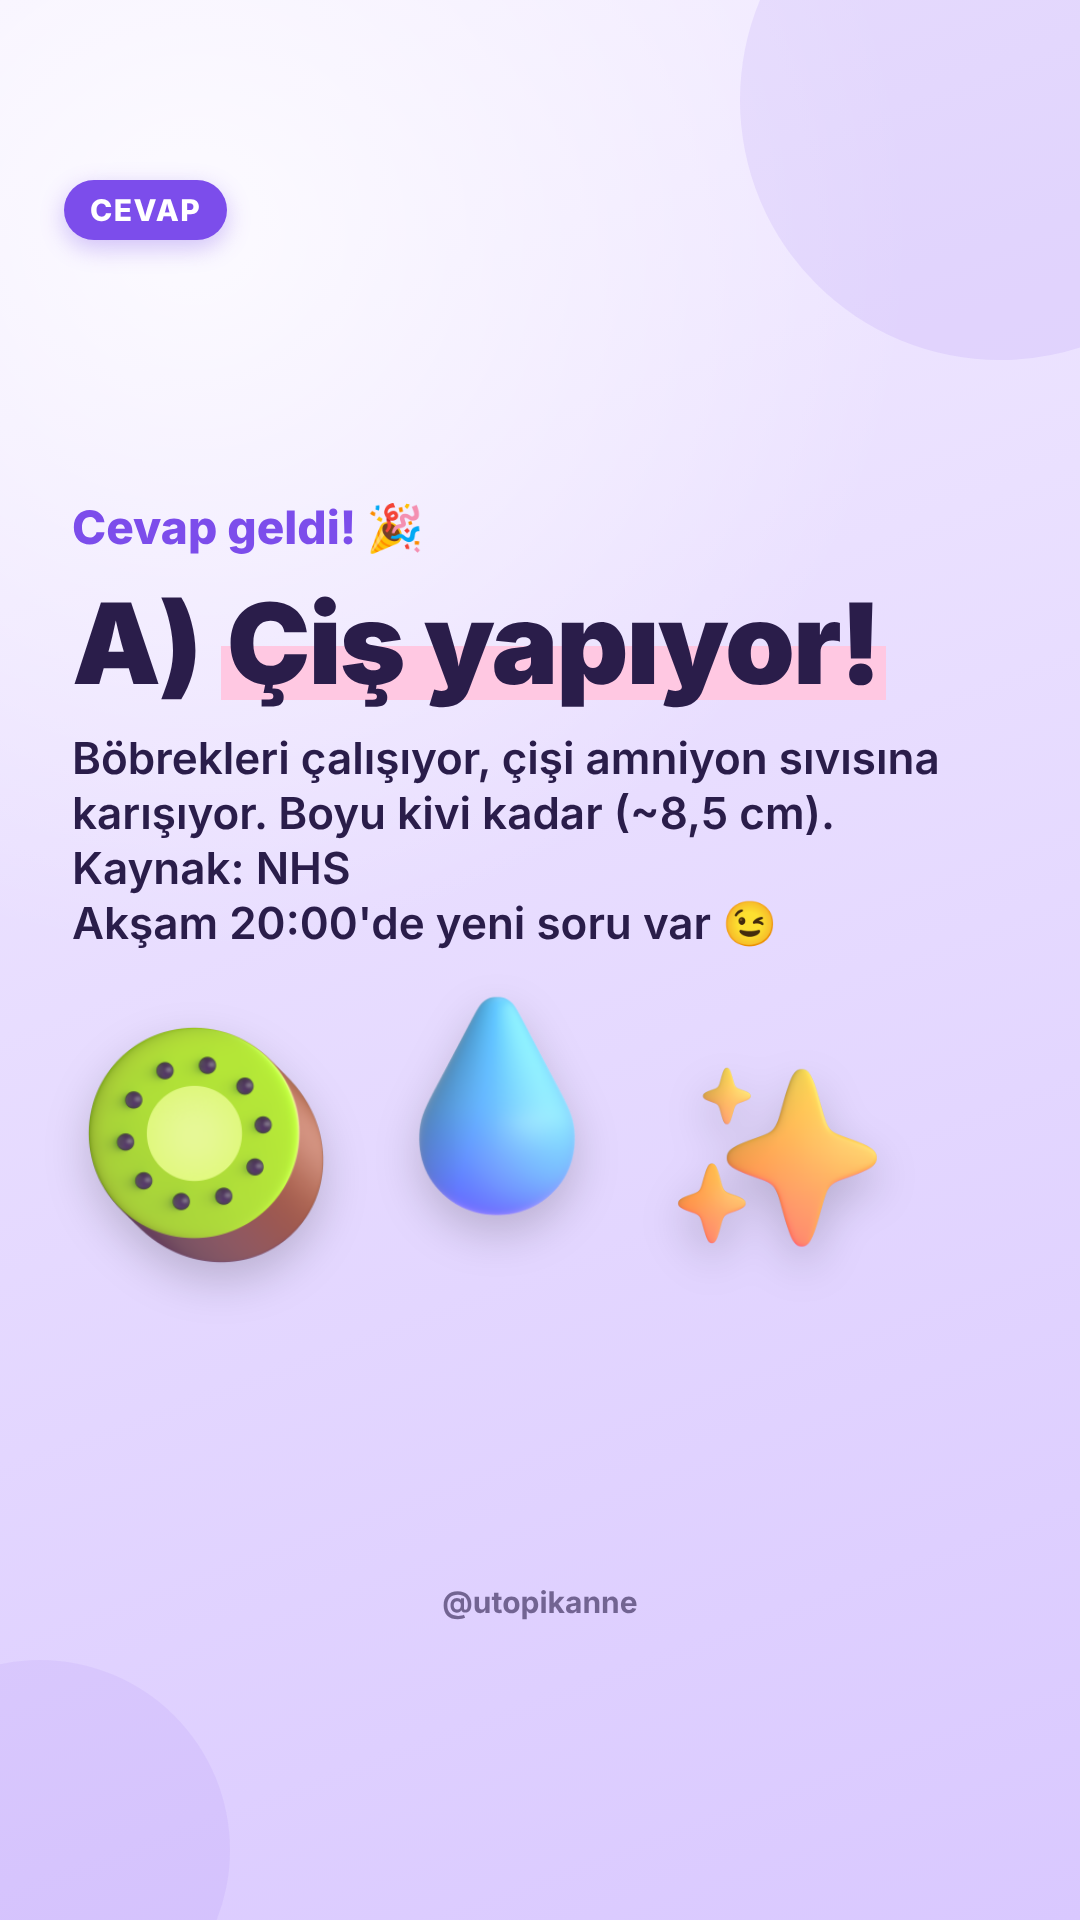
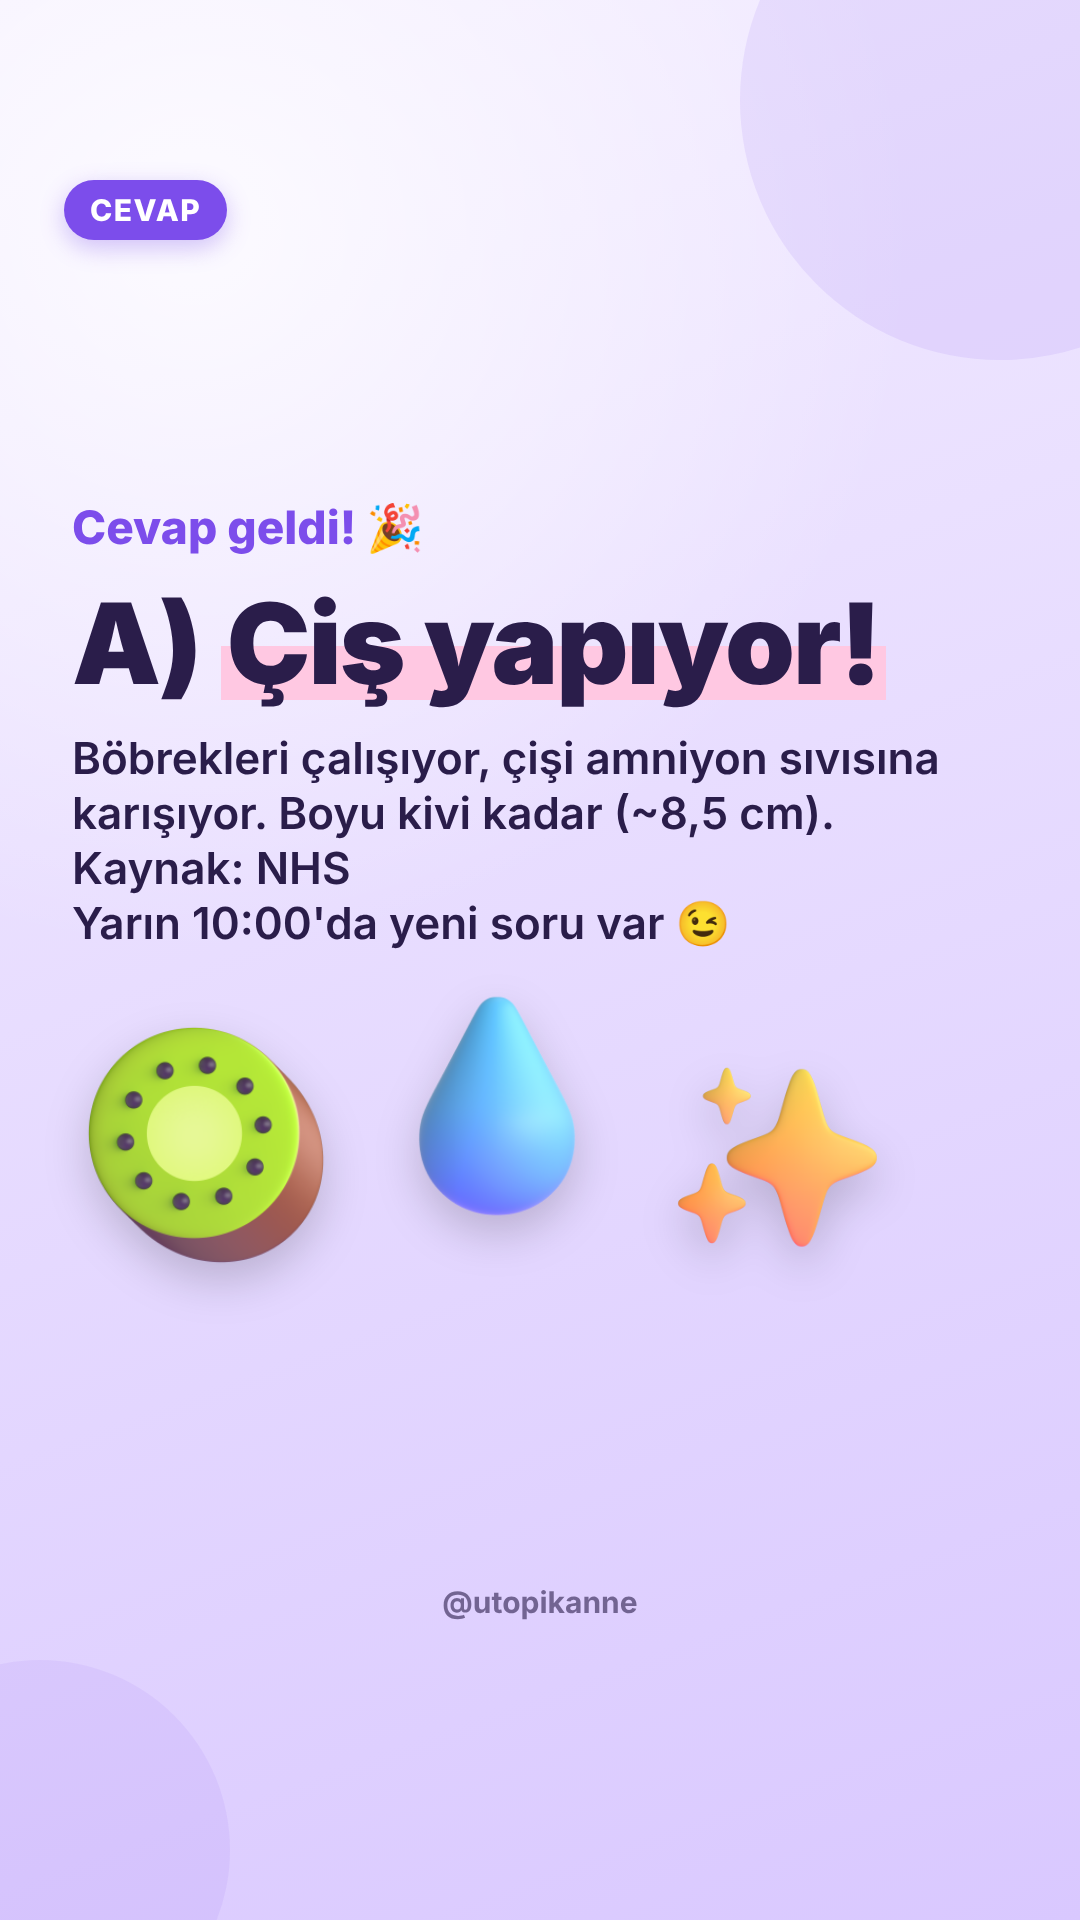
utopikanne 14 Kasım: 6 hikâye (günaydın, 2 soru-cevap, iyi geceler) + 13 Kasım 20:00 atıfları düzeltildi

Changed region(s): [[0.0611, 0.4688, 0.7333, 0.5]]

diff --git a/hesaplar/utopikanne/ders_notlari.md b/hesaplar/utopikanne/ders_notlari.md
@@ -20,3 +20,4 @@
 - 2026-11-10 (hesap sahibi uyarısı): Kapak "kapsül şekere benziyor" dedi ama görselde kapsül yoktu ("pro" beyaz zemin sadece yazı) → renkli tasarımcı rolü eklendi; "stil":"pro" bu hesapta KULLANILMAZ; başlık bir nesneden söz ediyorsa o nesne kapakta büyük çizilir (anne_canli kapak "yanyana" alanı). İyi geceler/günaydın duygu taşır: öğüt, sayı, kaynak yok. Fluent ikonları bu konteynerden indirilemiyor (github 403) → gerekirse kendimiz çiziyoruz.
 - 2026-11-10 (Analist, GÜVENLİK): analiz/veri_*.json içindeki "paging" adreslerinde access_token açık yazılıydı (public depo). ig_yayin.py analiz() artık temizle() ile paging ve token'ı siliyor; eski dosyalar temizlendi. Git geçmişinde hâlâ duruyor → token yenilenmeli.
 - 2026-11-13 (gece turu): Zamanlanmış görev metni v6.2 (10 Kasım) idi; Melike 11 Kasım 19:12–19:46'da v5.6 story kuralını koydu (soru+cevap çiftleri, günaydın'da "Bunu biliyor muydun?", şair sözü iyi geceler) → en yeni Melike kuralı uygulandı, 12 Kasım kuyruğu örnek alındı. Doğrulayıcı: "14. haftada yüz buruşturur" NHS/HSE'de yok (HSE 16. hafta) → soru "çiş yapıyor" oldu; emzik deliklerinin "nefes" amacı resmî metinde yok, yalnız "ventilation holes". Emzik çizimi marka/ikon/emzik.png (kendi çizimimiz).
+- 2026-11-14 (gece turu): Saat düzeni v6 (12 Kasım 13:14) 20:00 dizisini kaldırdı ama 13 Kasım günaydın ("Bu akşam 20:00'de bir soru var") ve 15:00 cevabı ("Akşam 20:00'de yeni soru var") eski metinle kalmıştı → ikisi yeniden çizildi (günaydın v7'ye göre tek bilgi; cevap "Yarın 10:00'da yeni soru var"). Kural: slot kaldırılınca o slota atıf yapan kareler de aynı turda taranır. Cumartesi feed yok kuralı nedeniyle "Aren 6 aylık" ekip carousel'i yapılmadı; Melike'ye kendi fotoğraflarıyla öneri. Doğrulayıcı: Kent bebek arabası Devonshire değil Burlington Kontu'nun kızı için; Pratt 1845 patenti biberon emziği değil.

diff --git a/hesaplar/utopikanne/gun/2026-11-14/kaynaklar.md b/hesaplar/utopikanne/gun/2026-11-14/kaynaklar.md
@@ -1,0 +1,5 @@
+# 14 Kasım 2026 — kaynaklar (Sağlık Doğrulayıcı)
+- 06:36 Günaydın: William Kent 1733'te Burlington Kontu'nun en büyük kızı için bebek arabası tasarladı; keçi ya da küçük midilli çekiyordu — Chiswick House & Gardens, https://chiswickhouseandgardens.org.uk/?p=16274 (Devonshire Dükü değil; "ilklerinden biri" ifadesi). Elijah Pratt 1845 patenti biberon emziği değil, meme koruyucu (US4131) → kullanılmadı.
+- 10:00 test: 6 aydan sonra yemekle su yudumları, açık bardak ya da valfsiz bardak; dişlere daha iyi; yalnız anne sütü alan bebek ek gıdadan önce su istemez — NHS, https://www.nhs.uk/baby/weaning-and-feeding/drinks-and-cups-for-babies-and-young-children/ (pipet sayfada geçmiyor; açıklamada kötülenmedi).
+- 15:00 hamilelik 15. hafta: baş-popo ~10,1 cm, elma büyüklüğü; gözler ışığa duyarlı; kaşlar/kirpikler gelişiyor — NHS, https://www.nhs.uk/start-for-life/pregnancy/week-by-week-guide-to-pregnancy/2nd-trimester/week-15
+- 22:28 İyi geceler: Leonid zirvesi 16-17 Kasım 2026 gecesi — NASA https://science.nasa.gov/solar-system/meteors-meteorites/leonids , AMS takvimi https://amsmeteors.org/meteor-shower-calendar/ (AMS haftalık bülteni 18 Kasım diyor; NASA+AMS takvimi esas alındı, saatlik sayı yazılmadı).

diff --git a/hesaplar/utopikanne/strateji.md b/hesaplar/utopikanne/strateji.md
@@ -170,7 +170,7 @@ Veri: Melike'nin son 10 Reels'i 1.218–3.739 kişiye ulaşıyor ama net takipç
 | HİKÂYE · TAHMİN ET | 1 (12 Kasım kemik sayısı) |
 | HİKÂYE · BU NE İŞE YARAR? | 1 (13 Kasım emzik delikleri) |
 | HİKÂYE · DOĞRU MU EFSANE Mİ? / BİLMECE SAATİ / MUTFAK SİHRİ / ANNE ZEKÂ TESTİ / KARNINDAKİ MİNİK | 0 |
-| HAMİLELİK (15:00, soru-cevap) | 11 (13 Kasım = 14. hafta) |
+| HAMİLELİK (15:00, soru-cevap) | 12 (14 Kasım = 15. hafta) |
 
 ## v4.4 — 8 Kasım gece (Melike: "atacağımız şeyleri hikâyede haber verelim, iletişimli duralım, samimi sıcak, ben atıyorum gibi; renkli")
 - Her gönderi/deneme Reels öncesi DUYURU HİKÂYESİ (carousel günü 10:00; `anne_canli.py --story`), Melike'nin ağzından birinci tekil ("hazırladım, paylaşıyorum, bana yaz"); uydurma deneyim yok.
